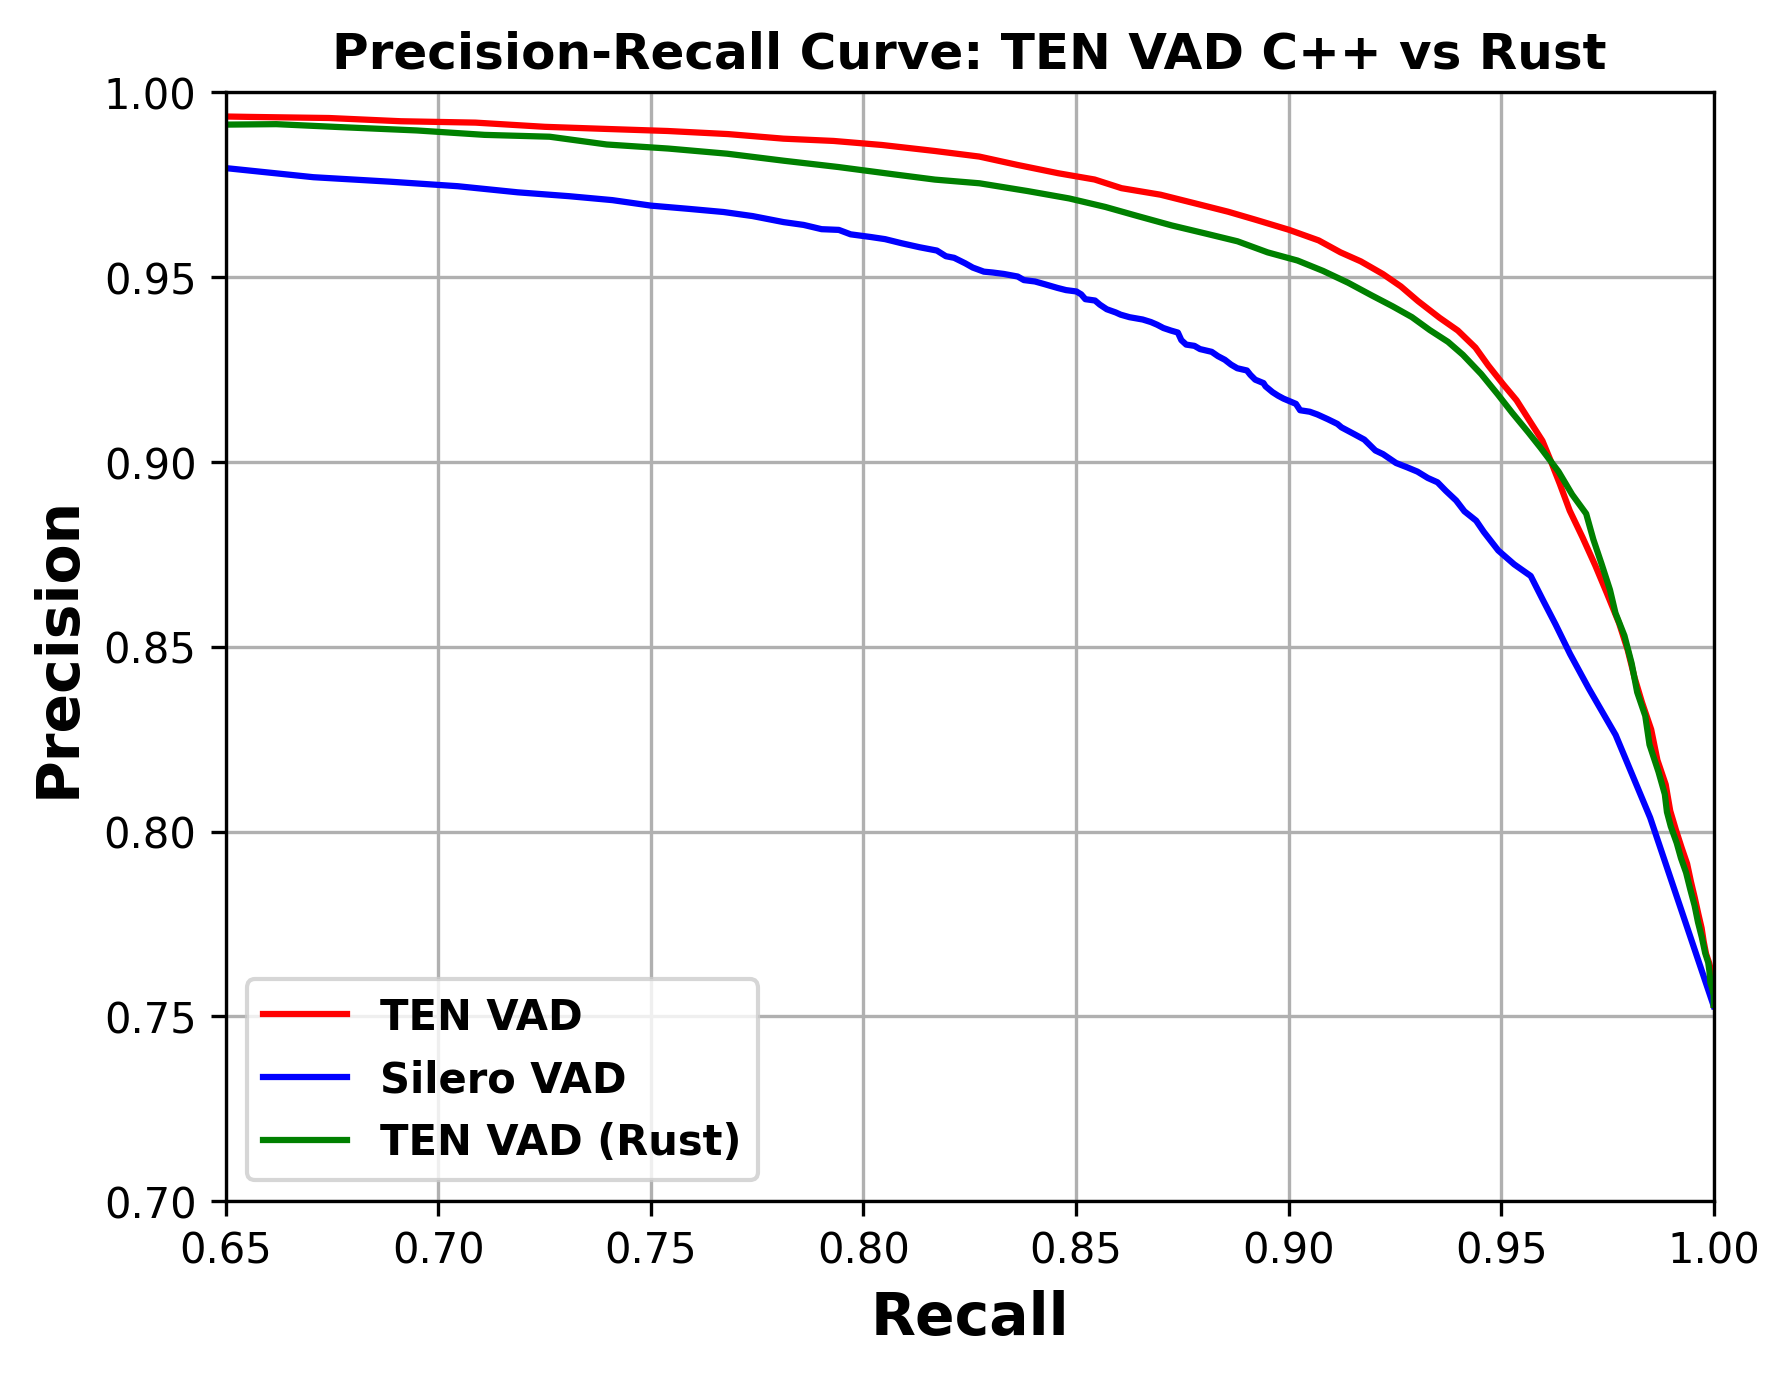
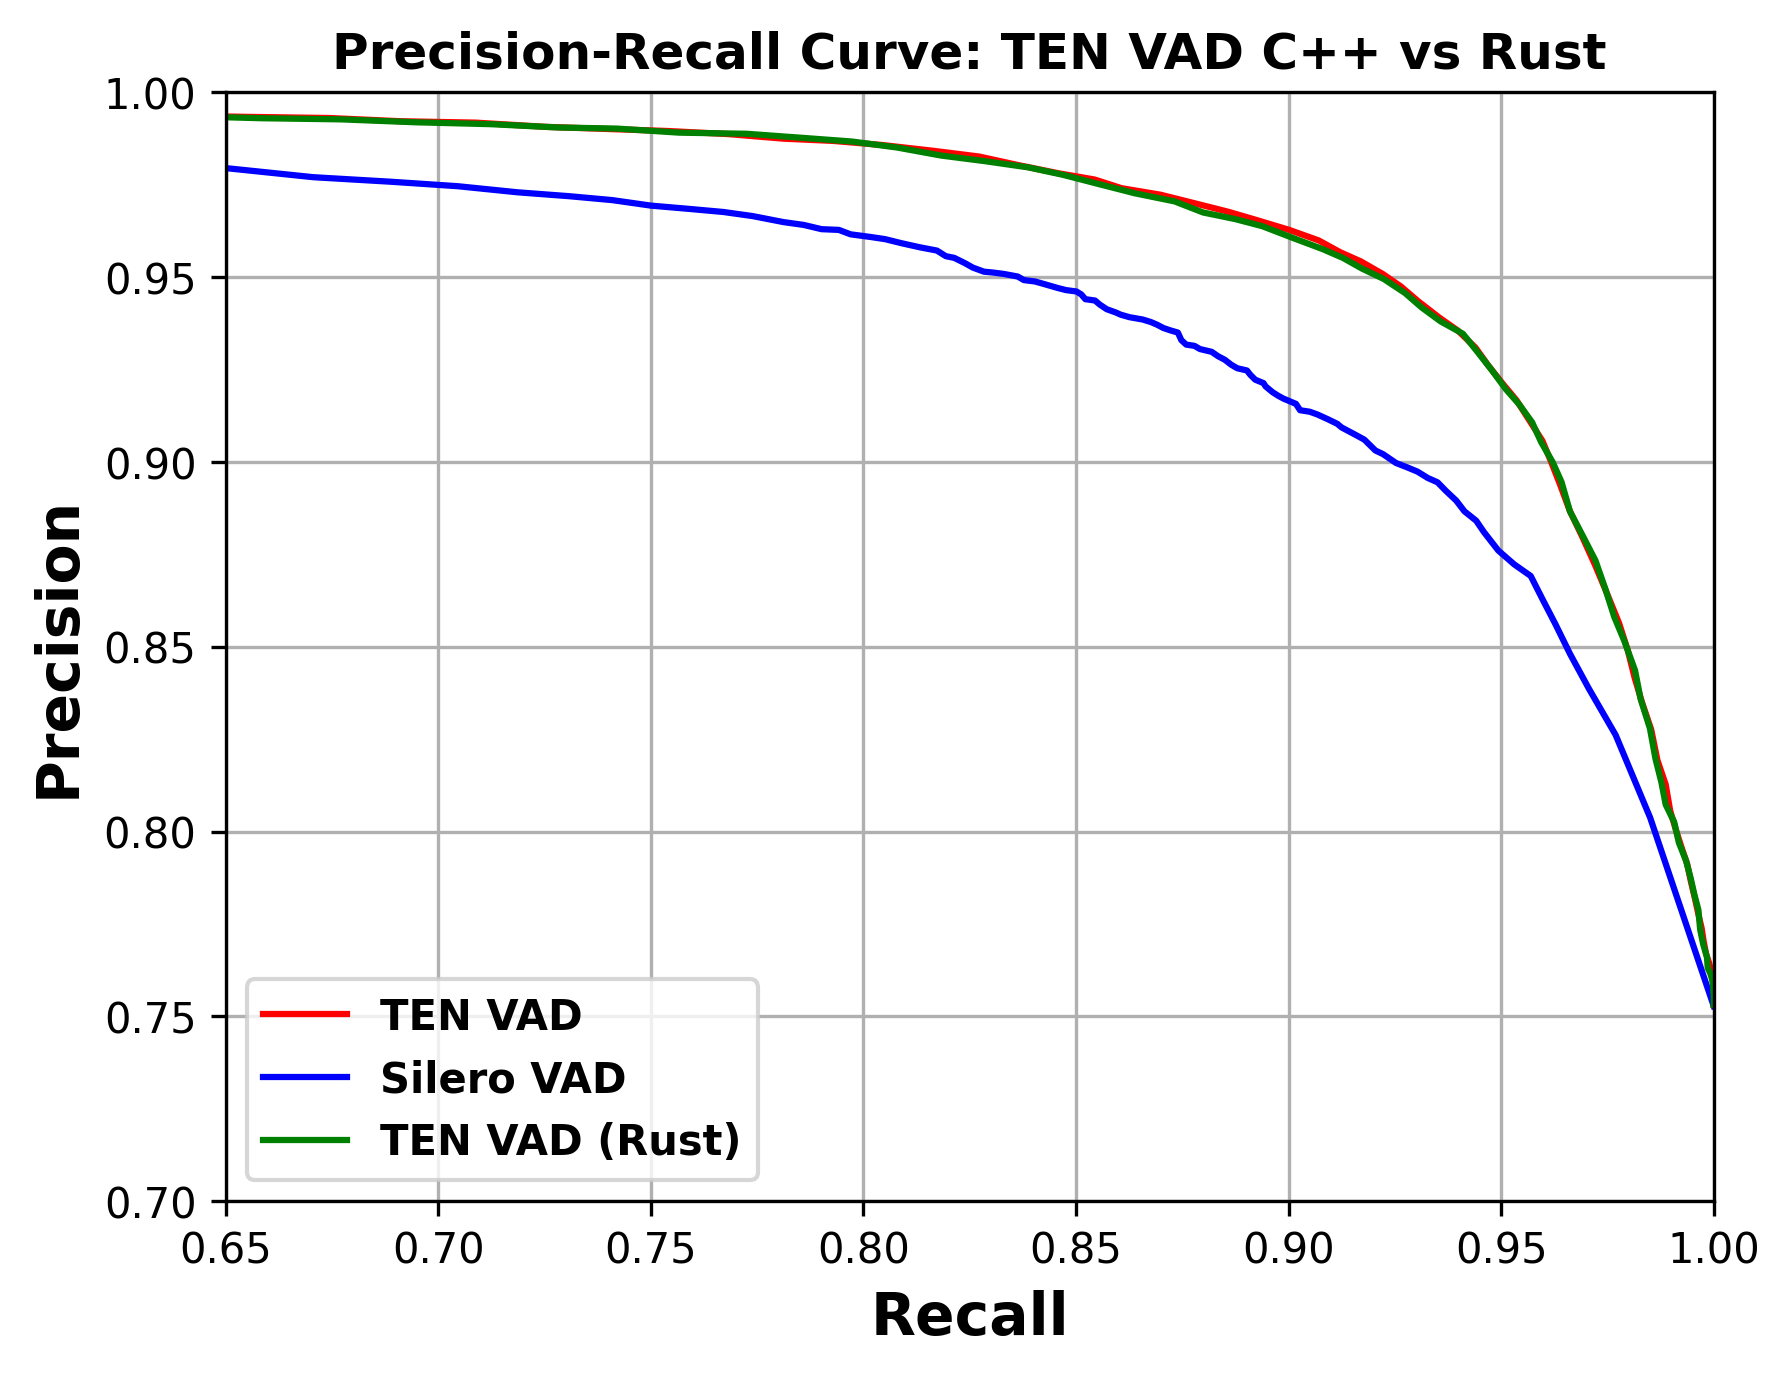
fully closes the gap between Rust and c++ implementations

diff --git a/src/pitch_est.rs b/src/pitch_est.rs
@@ -177,7 +177,7 @@ impl PitchEstimator {
             pitch_max_path_reg: [vec![0.0; max_period], vec![0.0; max_period]],
             pitch_prev: vec![vec![0; max_period]; frame_w],
             pitch_max_path_all: 0.0,
-            best_period_est: min_period,
+            best_period_est: 0,
             voiced: false,
             pitch_est_result: 0.0,
             biquad_filter: BiquadFilter::new(&AUP_PE_B_4KHZ, &AUP_PE_A_4KHZ, &AUP_PE_G_4KHZ),
@@ -222,7 +222,7 @@ impl PitchEstimator {
             row.fill(0);
         }
         self.pitch_max_path_all = 0.0;
-        self.best_period_est = self.min_period;
+        self.best_period_est = 0;
         self.voiced = false;
         self.pitch_est_result = 0.0;
         self.biquad_filter.reset();
@@ -320,7 +320,7 @@ impl PitchEstimator {
                     let j = i / 2;
                     lpc_scratch[j] += lpc_scratch[j] * r;
                 }
-                error *= (1.0 - r * r).max(1e-6);
+                error = error - r * r * error;
                 if error < 0.001 * ac[0] {
                     break;
                 }
@@ -376,8 +376,39 @@ impl PitchEstimator {
         y_in_to_shift: &[f32],
         xcorr: &mut [f32],
     ) {
-        for i in 0..corr_shift_times {
-            if i + corr_window_len > y_in_to_shift.len() || corr_window_len > ref_in.len() {
+        let work = corr_shift_times.min(xcorr.len());
+        let valid_ref = corr_window_len <= ref_in.len();
+        let mut i = 0usize;
+
+        while i + 3 < work {
+            if !valid_ref || i + corr_window_len + 3 > y_in_to_shift.len() {
+                xcorr[i] = 0.0;
+                xcorr[i + 1] = 0.0;
+                xcorr[i + 2] = 0.0;
+                xcorr[i + 3] = 0.0;
+            } else {
+                let mut sum0 = 0.0f32;
+                let mut sum1 = 0.0f32;
+                let mut sum2 = 0.0f32;
+                let mut sum3 = 0.0f32;
+                for j in 0..corr_window_len {
+                    let x = ref_in[j];
+                    let base = i + j;
+                    sum0 += x * y_in_to_shift[base];
+                    sum1 += x * y_in_to_shift[base + 1];
+                    sum2 += x * y_in_to_shift[base + 2];
+                    sum3 += x * y_in_to_shift[base + 3];
+                }
+                xcorr[i] = sum0;
+                xcorr[i + 1] = sum1;
+                xcorr[i + 2] = sum2;
+                xcorr[i + 3] = sum3;
+            }
+            i += 4;
+        }
+
+        while i < work {
+            if !valid_ref || i + corr_window_len > y_in_to_shift.len() {
                 xcorr[i] = 0.0;
             } else {
                 xcorr[i] = Self::celt_inner_prod(
@@ -385,6 +416,11 @@ impl PitchEstimator {
                     &y_in_to_shift[i..i + corr_window_len],
                 );
             }
+            i += 1;
+        }
+
+        for item in xcorr.iter_mut().skip(work) {
+            *item = 0.0;
         }
     }
 

diff --git a/src/biquad.rs b/src/biquad.rs
@@ -2,21 +2,21 @@ const AGORA_UAP_BIQUAD_MAX_SECTION: usize = 20;
 
 pub const ANTI_ALIAS_SECTIONS: usize = 5;
 pub const AUP_PE_B_4KHZ: [[f32; 3]; ANTI_ALIAS_SECTIONS] = [
-    [1.0, 2.0, 1.0],
-    [1.0, 2.0, 1.0],
-    [1.0, 2.0, 1.0],
-    [1.0, 2.0, 1.0],
-    [1.0, 2.0, 1.0],
+    [1.0, 1.198825, 1.0],
+    [1.0, -0.567461, 1.0],
+    [1.0, -1.099061, 1.0],
+    [1.0, -1.265846, 1.0],
+    [1.0, -1.318849, 1.0],
 ];
 pub const AUP_PE_A_4KHZ: [[f32; 3]; ANTI_ALIAS_SECTIONS] = [
-    [1.0, -1.5632873, 0.6413515],
-    [1.0, -1.6705136, 0.7438272],
-    [1.0, -1.7908360, 0.8612530],
-    [1.0, -1.8921540, 0.9628200],
-    [1.0, -1.9555780, 1.0274490],
+    [1.0, -1.445267, 0.5463974],
+    [1.0, -1.426720, 0.6820138],
+    [1.0, -1.408255, 0.8286664],
+    [1.0, -1.400909, 0.9240320],
+    [1.0, -1.408242, 0.9789776],
 ];
 pub const AUP_PE_G_4KHZ: [f32; ANTI_ALIAS_SECTIONS] =
-    [0.0199605, 0.0199605, 0.0199605, 0.0199605, 0.0199605];
+    [0.2692541, 0.2692541, 0.2692541, 0.2692541, 0.2692541];
 
 #[derive(Clone, Debug)]
 pub struct BiquadFilter {
